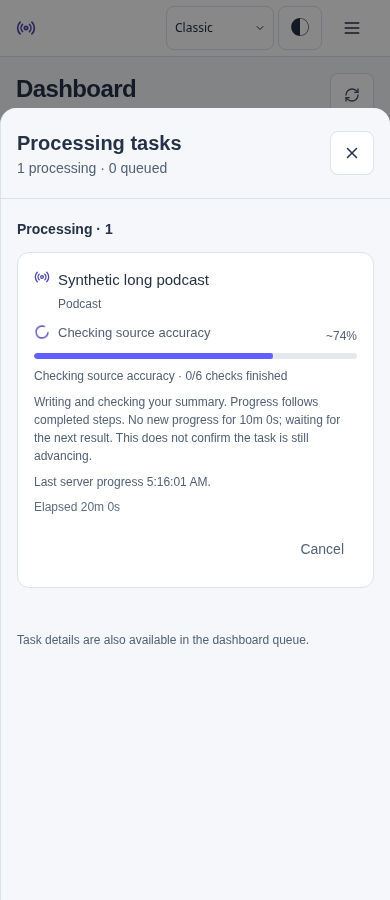
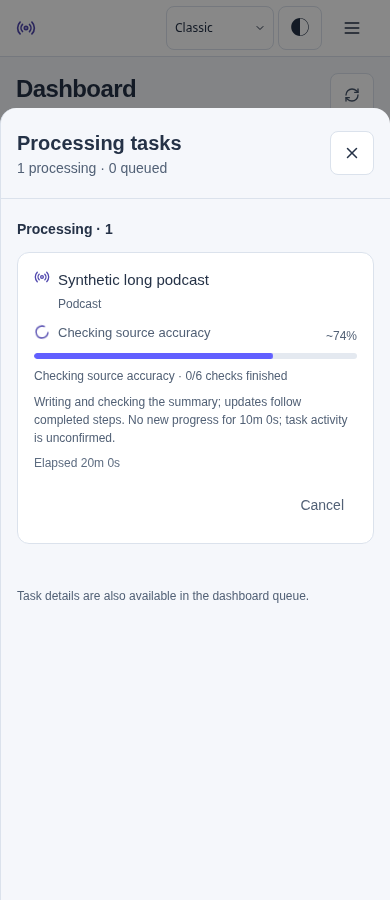
fix(progress): keep feedback within existing loading budget

diff --git a/web/src/components/TaskStatus.tsx b/web/src/components/TaskStatus.tsx
@@ -66,18 +66,18 @@ export function TaskProgress({
   const reportedAt = typeof updatedAt === 'string' ? Date.parse(updatedAt) : updatedAt;
   // Old podcast revisions were counters, not epoch timestamps. Never treat
   // those or future/invalid timestamps as evidence of recent backend work.
-  const validReport = typeof reportedAt === 'number' && Number.isFinite(reportedAt)
+  const validReport = typeof reportedAt === 'number'
     && reportedAt >= 946684800000 && reportedAt <= now;
   const unchangedSeconds = Math.max(0, Math.floor((now - (validReport ? reportedAt : lastChange)) / 1000));
-  const stageHint = coverageReview ? "Checking the saved transcript section by section. Your saved note stays readable." : status === "summarizing"
-    ? "Writing and checking your summary. Progress follows completed steps."
+  const stageHint = coverageReview ? "Checking transcript sections; saved notes remain readable." : status === "summarizing"
+    ? "Writing and checking the summary; updates follow completed steps."
     : status === "transcribing"
-      ? "Working through the audio. Longer recordings finish in batches."
+      ? "Transcribing audio in batches."
       : status === "saving"
-        ? "Final checks and saving. Complete only when your notes are ready."
+        ? "Checking and saving your notes."
         : status === "downloading"
-          ? "Fetching your media. Progress follows downloaded data."
-          : "Preparing your content. Progress updates as results arrive.";
+          ? "Downloading media."
+          : "Preparing content; waiting for results.";
   const active = isActiveStatus(status) && !waiting;
   return (
     <div className="task-progress" data-offline={!online || undefined}>
@@ -117,13 +117,10 @@ export function TaskProgress({
           {!online
             ? "You're offline. Reconnect to refresh progress."
             : unchangedSeconds >= 30
-              ? `${stageHint} No new progress for ${Math.floor(unchangedSeconds / 60)}m ${unchangedSeconds % 60}s; waiting for the next result. This does not confirm the task is still advancing.`
+              ? `${stageHint} No new progress for ${Math.floor(unchangedSeconds / 60)}m ${unchangedSeconds % 60}s; task activity is unconfirmed.`
               : stageHint}
         </p>
       )}
-      {active && validReport && <p className="task-progress-expectation">
-        Last server progress <time dateTime={new Date(reportedAt).toISOString()}>{new Date(reportedAt).toLocaleTimeString()}</time>.
-      </p>}
       {startedAt > 0 && isActiveStatus(status) && status !== "pending" && (
         <span className="text-xs text-gray-500 tabular-nums">
           Elapsed {Math.floor(elapsed / 60)}m {elapsed % 60}s

diff --git a/web/tests/task-workspace.test.tsx b/web/tests/task-workspace.test.tsx
@@ -213,17 +213,16 @@ it('keeps server progress age after remount and clears it only on a newer report
   const render=(updatedAt:number|string)=>root.render(<TaskProgress status="summarizing" progress={74} updatedAt={updatedAt} message="Checking source accuracy · 0/6 checks finished"/>)
   await act(async()=>render(old))
   expect(node.textContent).toContain('No new progress for 10m 0s')
-  expect(node.textContent).toContain('does not confirm the task is still advancing')
+  expect(node.textContent).toContain('task activity is unconfirmed')
   await act(async()=>root.render(<div/>))
   await act(async()=>vi.advanceTimersByTime(5000))
   await act(async()=>render(old))
   expect(node.textContent).toContain('No new progress for 10m 5s')
   await act(async()=>render(new Date().toISOString()))
   expect(node.textContent).not.toContain('No new progress')
-  expect(node.textContent).toContain('Last server progress')
   for(const invalid of [1,NaN,Date.now()+600000,'invalid']) {
    await act(async()=>render(invalid))
-   expect(node.textContent).not.toContain('Last server progress')
+   expect(node.textContent).not.toContain('10m 5s')
   }
  } finally {vi.useRealTimers()}
 })
